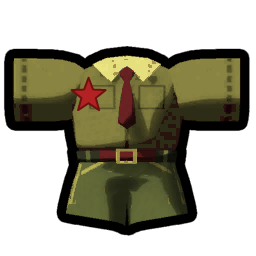
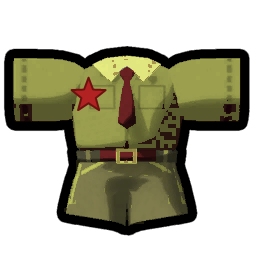
1.3.1: uniforme fiel as referencias (patentes, gola vermelha, calca no coturno)
- Mapeamento UV empirico do atlas: boneco vestido com gradiente UV + shader
  unlit (novo UnlitDummy no autotest) + tools/DecodeUV.cs decodifica o render
  em um mapa atlas->corpo (documentado no AGENTS.md)
- Caqui claro esverdeado (as referencias), gola vermelha, patches vermelhos
  com estrela dourada no peito, estrela vermelha nas costas, meiao pintado de
  caqui (calca enfiada no coturno) sobre a regiao listrada correta
- PeakRecon exporta tambem as texturas de sapato (fitMaterialShoes)
- Autotest: camera do boneco afastada p/ corpo inteiro no render de validacao

diff --git a/tools/MakeSovietTex.cs b/tools/MakeSovietTex.cs
@@ -21,20 +21,45 @@ class MakeSovietTex
         string outDir = args[1];
         Directory.CreateDirectory(outDir);
 
-        // atlas 1024x1024 do uniforme (regiao do emblema de montanha vira estrela)
+        // atlas 1024x1024 do uniforme. Regioes confirmadas pelo mapa UV
+        // (tools\DecodeUV.cs + render unlit do boneco):
+        //   x718-908 y40-262  = ombros/gola direita  -> patente vermelha + estrela dourada
+        //   x435-705 y0-58    = topo do peito/gola    -> faixa vermelha
+        //   x62-348  y282-622 = meiao ("janela")      -> calca caqui + cano de coturno preto
+        //   x0-437   y840+    = gravata               -> vermelha
+        //   montanha (712,450) = emblema das COSTAS   -> estrela vermelha
         using (Bitmap atlas = new Bitmap(Path.Combine(texDir, "fits_14_Fit_Scoutmaster_Shorts_mat.png")))
         {
             // apaga a montanha clonando camisa limpa da esquerda (mesma faixa de y)
             CloneStamp(atlas, 635, 370, 810, 525, -190, 0);
             Remap(atlas, 0, 820, 440, 1023);
-            DrawStar(atlas, 712f, 450f, 74f);
+            // gola: faixa vermelha no topo do peito
+            PaintRegion(atlas, 435, 0, 705, 58, 0.0, 0.70, 0.55, 0.18, true);
+            // patente (pogony): vermelho dentro da moldura escura do "quadro"
+            PaintRegion(atlas, 718, 40, 908, 262, 0.0, 0.70, 0.55, 0.18, true);
+            // meiao -> calca caqui (em cima) + cano de coturno preto (embaixo).
+            // O meiao usa a regiao listrada branca (confirmado no render unlit);
+            // o bloco "janela" recebe o mesmo tratamento por seguranca (sem uso visivel)
+            PaintRegion(atlas, 62, 282, 348, 455, 0.15, 0.45, 0.60, 0.12, false);
+            PaintRegion(atlas, 62, 455, 348, 625, 0.08, 0.15, 0.12, 0.05, false);
+            PaintRegion(atlas, 448, 598, 972, 800, 0.15, 0.45, 0.60, 0.12, false);
+            PaintRegion(atlas, 448, 800, 972, 1020, 0.08, 0.15, 0.12, 0.05, false);
+            // estrela vermelha nas costas (antigo emblema de montanha)
+            DrawStar(atlas, 712f, 450f, 74f,
+                Color.FromArgb(255, 178, 34, 34), Color.FromArgb(255, 110, 16, 16));
+            // estrela dourada na patente do ombro
+            DrawStar(atlas, 818f, 152f, 52f,
+                Color.FromArgb(255, 214, 176, 56), Color.FromArgb(255, 120, 90, 20));
             atlas.Save(Path.Combine(outDir, "FitSoviet_atlas.png"), ImageFormat.Png);
         }
-        // icone 256x256 do passaporte (estrela no peito esquerdo)
+        // icone 256x256 do passaporte (estrela no peito + ombreiras vermelhas)
         using (Bitmap icon = new Bitmap(Path.Combine(texDir, "fits_14_Fit_Scoutmaster_Shorts_tex.png")))
         {
             Remap(icon, 100, 45, 155, 160);
-            DrawStar(icon, 88f, 95f, 18f);
+            PaintRegion(icon, 52, 38, 96, 56, 0.0, 0.70, 0.55, 0.18, true);
+            PaintRegion(icon, 158, 38, 202, 56, 0.0, 0.70, 0.55, 0.18, true);
+            DrawStar(icon, 88f, 95f, 18f,
+                Color.FromArgb(255, 178, 34, 34), Color.FromArgb(255, 110, 16, 16));
             icon.Save(Path.Combine(outDir, "FitSoviet_icon.png"), ImageFormat.Png);
         }
         // capacete: MedicHelmet ja e verde-oliva; troca o coracao por estrela
@@ -43,6 +68,47 @@ class MakeSovietTex
             CloneStamp(helm, 340, 365, 720, 720, -330, 0);
             DrawStar(helm, 528f, 530f, 118f);
             helm.Save(Path.Combine(outDir, "SovietHelmet_tex.png"), ImageFormat.Png);
+        }
+        // grade de debug UV: 8x8 celulas rotuladas A1..H8 para descobrir que regiao
+        // do atlas cai em cada parte do corpo (vestir via autopilot e fotografar)
+        using (Bitmap grid = new Bitmap(1024, 1024))
+        {
+            Color[] cols = new Color[]
+            {
+                Color.Red, Color.Lime, Color.Blue, Color.Yellow,
+                Color.Magenta, Color.Cyan, Color.Orange, Color.White
+            };
+            using (Graphics gr = Graphics.FromImage(grid))
+            using (Font f = new Font("Arial", 22, FontStyle.Bold))
+            {
+                for (int cy = 0; cy < 8; cy++)
+                {
+                    for (int cx = 0; cx < 8; cx++)
+                    {
+                        Color cc = cols[(cx + cy) % 8];
+                        using (Brush b = new SolidBrush(cc))
+                            gr.FillRectangle(b, cx * 128, cy * 128, 128, 128);
+                        string label = "" + (char)('A' + cy) + (cx + 1);
+                        gr.DrawString(label, f, Brushes.Black, cx * 128 + 6, cy * 128 + 6);
+                        gr.DrawString(label, f, Brushes.Black, cx * 128 + 60, cy * 128 + 88);
+                    }
+                }
+            }
+            grid.Save(Path.Combine(outDir, "UVGrid_atlas.png"), ImageFormat.Png);
+        }
+        // gradiente UV: R=coluna, G=linha, B=0 (marca d'agua). Um pixel do render
+        // unlit decodifica direto para a posicao no atlas (ver tools\DecodeUV.cs)
+        using (Bitmap grad = new Bitmap(1024, 1024))
+        {
+            for (int y = 0; y < 1024; y++)
+            {
+                for (int x = 0; x < 1024; x++)
+                {
+                    grad.SetPixel(x, y, Color.FromArgb(255, (int)(x * 255.0 / 1023.0),
+                                                       (int)(y * 255.0 / 1023.0), 0));
+                }
+            }
+            grad.Save(Path.Combine(outDir, "UVGradient_atlas.png"), ImageFormat.Png);
         }
         Console.WriteLine("ok: FitSoviet_atlas.png + FitSoviet_icon.png em " + outDir);
         return 0;
@@ -88,8 +154,9 @@ class MakeSovietTex
                 }
                 else if (marrom)
                 {
-                    // camisa marrom -> caqui amarelado (referencia: gimnastyorka)
-                    bmp.SetPixel(x, y, FromHsv(0.155, 0.38 + s * 0.20, Math.Min(1.0, v * 1.12), c.A));
+                    // camisa marrom -> caqui esverdeado CLARO (levanta os tons escuros
+                    // para nao confundir com o marrom original sob luz quente)
+                    bmp.SetPixel(x, y, FromHsv(0.175, 0.40 + s * 0.15, Math.Min(1.0, 0.22 + v * 0.85), c.A));
                 }
                 else if (verde && v < 0.35 && x >= tx0 && x <= tx1 && y >= ty0 && y <= ty1)
                 {
@@ -98,8 +165,8 @@ class MakeSovietTex
                 }
                 else if (verde)
                 {
-                    // cinto/calcao verdes -> verde-oliva militar
-                    bmp.SetPixel(x, y, FromHsv(0.19, s * 0.65, v * 0.88, c.A));
+                    // cinto/calcao verdes -> caqui um tom abaixo da camisa (referencia)
+                    bmp.SetPixel(x, y, FromHsv(0.155, s * 0.55, Math.Min(1.0, 0.10 + v * 0.85), c.A));
                 }
                 else if (claro)
                 {
@@ -113,6 +180,12 @@ class MakeSovietTex
 
     static void DrawStar(Bitmap bmp, float cx, float cy, float radius)
     {
+        DrawStar(bmp, cx, cy, radius,
+            Color.FromArgb(255, 178, 34, 34), Color.FromArgb(255, 110, 16, 16));
+    }
+
+    static void DrawStar(Bitmap bmp, float cx, float cy, float radius, Color fillC, Color edgeC)
+    {
         PointF[] pts = new PointF[10];
         double rot = -Math.PI / 2.0; // ponta para cima
         for (int i = 0; i < 10; i++)
@@ -125,12 +198,31 @@ class MakeSovietTex
         using (Graphics gr = Graphics.FromImage(bmp))
         {
             gr.SmoothingMode = SmoothingMode.AntiAlias;
-            using (Brush fill = new SolidBrush(Color.FromArgb(255, 178, 34, 34)))
-            using (Pen edge = new Pen(Color.FromArgb(255, 110, 16, 16), Math.Max(2f, radius * 0.08f)))
+            using (Brush fill = new SolidBrush(fillC))
+            using (Pen edge = new Pen(edgeC, Math.Max(2f, radius * 0.08f)))
             {
                 edge.LineJoin = LineJoin.Round;
                 gr.FillPolygon(fill, pts);
                 gr.DrawPolygon(edge, pts);
+            }
+        }
+    }
+
+    // recolore um retangulo do atlas preservando o sombreado (v do pixel);
+    // skipDark preserva contornos escuros (ex.: moldura da patente)
+    static void PaintRegion(Bitmap bmp, int x0, int y0, int x1, int y1,
+                            double h, double s, double vmul, double vadd, bool skipDark)
+    {
+        for (int y = y0; y <= y1 && y < bmp.Height; y++)
+        {
+            for (int x = x0; x <= x1 && x < bmp.Width; x++)
+            {
+                Color c = bmp.GetPixel(x, y);
+                if (c.A < 8) continue;
+                int max = Math.Max(c.R, Math.Max(c.G, c.B));
+                double v = max / 255.0;
+                if (skipDark && v < 0.30) continue;
+                bmp.SetPixel(x, y, FromHsv(h, s, Math.Min(1.0, v * vmul + vadd), c.A));
             }
         }
     }

diff --git a/tools/DecodeUV.cs b/tools/DecodeUV.cs
@@ -1,0 +1,78 @@
+// DecodeUV - le o render unlit do boneco vestido com UVGradient_atlas.png e
+// pinta, sobre o atlas original escurecido, qual parte do corpo usa cada regiao.
+// Faixas de tela (render 512x512 do dummyCamera com o ajuste do PeakAutoTest):
+//   ombros=vermelho, mangas=laranja, peito=verde, cinto=azul, calcao=amarelo,
+//   meiao=magenta, sapato/bota=ciano.
+// uso: DecodeUV.exe <dummy_rt.png> <atlas_original.png> <saida_map.png>
+using System;
+using System.Drawing;
+using System.Drawing.Imaging;
+
+class DecodeUV
+{
+    static int Main(string[] args)
+    {
+        if (args.Length < 3)
+        {
+            Console.WriteLine("uso: DecodeUV.exe <dummy_rt.png> <atlas_original.png> <saida_map.png>");
+            return 1;
+        }
+        using (Bitmap rt = new Bitmap(args[0]))
+        using (Bitmap baseAtlas = new Bitmap(args[1]))
+        using (Bitmap outMap = new Bitmap(1024, 1024))
+        {
+            // fundo: atlas original escurecido para dar contexto
+            using (Graphics g = Graphics.FromImage(outMap))
+            {
+                g.DrawImage(baseAtlas, 0, 0, 1024, 1024);
+                using (Brush dim = new SolidBrush(Color.FromArgb(150, 255, 255, 255)))
+                    g.FillRectangle(dim, 0, 0, 1024, 1024);
+            }
+            int pintados = 0;
+            for (int y = 0; y < rt.Height; y++)
+            {
+                Color band = Classify(y, rt.Height);
+                if (band.A == 0) continue;
+                for (int x = 0; x < rt.Width; x++)
+                {
+                    Color c = rt.GetPixel(x, y);
+                    // so aceita pixels do gradiente: B~0 e nao-preto
+                    if (c.B > 40 || c.R + c.G < 25) continue;
+                    if (c.R > 230 && c.G > 230) continue; // branco = pele
+                    // mangas vs peito: faixa lateral
+                    Color use = band;
+                    if (band.G == 255 && band.R == 0 && (x < rt.Width * 34 / 100 || x > rt.Width * 66 / 100))
+                        use = Color.Orange;
+                    int ax = (int)(c.R / 255.0 * 1023.0);
+                    int ay = (int)(c.G / 255.0 * 1023.0);
+                    for (int dy = -2; dy <= 2; dy++)
+                    {
+                        for (int dx = -2; dx <= 2; dx++)
+                        {
+                            int px = ax + dx, py = ay + dy;
+                            if (px < 0 || py < 0 || px > 1023 || py > 1023) continue;
+                            outMap.SetPixel(px, py, use);
+                        }
+                    }
+                    pintados++;
+                }
+            }
+            outMap.Save(args[2], ImageFormat.Png);
+            Console.WriteLine("ok: " + pintados + " pixels decodificados -> " + args[2]);
+        }
+        return 0;
+    }
+
+    // faixas verticais do render 512 (escala se o render tiver outro tamanho)
+    static Color Classify(int y, int h)
+    {
+        double f = y / (double)h;
+        if (f >= 0.235 && f < 0.290) return Color.Red;                  // ombros/trapezios
+        if (f >= 0.290 && f < 0.420) return Color.FromArgb(0, 255, 0);  // peito (mangas via x)
+        if (f >= 0.420 && f < 0.455) return Color.Blue;                 // cinto
+        if (f >= 0.455 && f < 0.540) return Color.Yellow;               // calcao
+        if (f >= 0.600 && f < 0.665) return Color.Magenta;              // meiao
+        if (f >= 0.665 && f < 0.760) return Color.Cyan;                 // sapato/bota
+        return Color.FromArgb(0, 0, 0, 0);
+    }
+}

diff --git a/PeakAutoTest.cs b/PeakAutoTest.cs
@@ -26,6 +26,7 @@ public class PeakAutoTestPlugin : BaseUnityPlugin
     private ConfigEntry<bool> _testUI;
     private ConfigEntry<bool> _airportOnly;
     private ConfigEntry<bool> _testPassport;
+    private ConfigEntry<bool> _unlitDummy;
     private bool _soloClicked;
     private bool _boarded;
 
@@ -41,6 +42,7 @@ public class PeakAutoTestPlugin : BaseUnityPlugin
         _testUI = Config.Bind("AutoTest", "TestBoardingUI", false, "Abre e fecha a boarding pass antes de embarcar (testa a UI injetada)");
         _airportOnly = Config.Bind("AutoTest", "AirportOnly", false, "Para no Airport, espera QuitAfterSeconds e fecha (nao embarca)");
         _testPassport = Config.Bind("AutoTest", "TestPassport", false, "No Airport: veste o Fit_Soviet + bone, abre o passaporte, tira screenshot e fecha");
+        _unlitDummy = Config.Bind("AutoTest", "UnlitDummy", false, "No TestPassport: boneco em shader unlit (leitura de UV, cores puras da textura)");
         if (!_enabled.Value)
         {
             Log.LogInfo("[AutoTest] desligado");
@@ -223,6 +225,41 @@ public class PeakAutoTestPlugin : BaseUnityPlugin
         }
         else Log.LogWarning("[AutoTest] PassportManager.instance nulo");
         yield return new WaitForSeconds(3f);
+        // afasta a camera do boneco para enquadrar o corpo inteiro no render
+        try
+        {
+            if (pm != null && pm.dummyCamera != null)
+            {
+                Transform ct = pm.dummyCamera.transform;
+                ct.position = ct.position - ct.forward * 1.6f - Vector3.up * 0.45f;
+                pm.dummyCamera.fieldOfView = 55f;
+            }
+            // shader unlit em tudo do boneco: cores puras da textura, sem luz da cena
+            if (pm != null && pm.dummy != null && _unlitDummy.Value)
+            {
+                Shader unlit = Shader.Find("UI/Default");
+                if (unlit == null) unlit = Shader.Find("Unlit/Texture");
+                if (unlit != null)
+                {
+                    Renderer[] all = pm.dummy.GetComponentsInChildren<Renderer>(true);
+                    for (int ri = 0; ri < all.Length; ri++)
+                    {
+                        Material[] ms = all[ri].materials;
+                        for (int mi = 0; mi < ms.Length; mi++)
+                        {
+                            if (ms[mi] == null) continue;
+                            Texture keep = ms[mi].mainTexture;
+                            ms[mi].shader = unlit;
+                            ms[mi].mainTexture = keep;
+                        }
+                    }
+                    Log.LogInfo("[AutoTest] boneco em modo unlit para leitura de UV");
+                }
+                else Log.LogWarning("[AutoTest] nenhum shader unlit disponivel");
+            }
+        }
+        catch (Exception e) { Log.LogWarning("[AutoTest] ajuste de camera/shader falhou: " + e.Message); }
+        yield return new WaitForSeconds(1f);
         // prova extra: salva o render do boneco de preview direto da camera dele
         try
         {

diff --git a/PeakRecon.cs b/PeakRecon.cs
@@ -213,7 +213,7 @@ public class PeakReconPlugin : BaseUnityPlugin
             }
             if (o.fitMesh != null) sb.AppendLine("      fitMesh=" + o.fitMesh.name);
             DumpMat("fitMaterial", o.fitMaterial, sb, texDir, exportTex, label + "_" + i + "_" + o.name);
-            DumpMat("fitMaterialShoes", o.fitMaterialShoes, sb, texDir, false, null);
+            DumpMat("fitMaterialShoes", o.fitMaterialShoes, sb, texDir, exportTex, label + "_" + i + "_" + o.name + "_shoes");
             DumpMat("fitMaterialOverridePants", o.fitMaterialOverridePants, sb, texDir, false, null);
             DumpMat("fitMaterialOverrideHat", o.fitMaterialOverrideHat, sb, texDir, false, null);
             if (o.overrideHat) sb.AppendLine("      overrideHat -> index " + o.overrideHatIndex);

diff --git a/PeakLab.cs b/PeakLab.cs
@@ -19,7 +19,7 @@ using UnityEngine.Events;
 using UnityEngine.SceneManagement;
 using UnityEngine.UI;
 
-[BepInPlugin("nicolas.peaklab", "PeakLab", "1.3.0")]
+[BepInPlugin("nicolas.peaklab", "PeakLab", "1.3.1")]
 public class PeakLabPlugin : BaseUnityPlugin
 {
     internal static ManualLogSource Log;
@@ -111,7 +111,7 @@ public class PeakLabPlugin : BaseUnityPlugin
                 new HarmonyMethod(typeof(PeakLabPlugin).GetMethod("SetCustomForRefPrefix",
                     BindingFlags.Static | BindingFlags.NonPublic)), null);
             SceneManager.sceneLoaded += OnSceneLoaded;
-            Log.LogInfo("PeakLab 1.3.0 pronto");
+            Log.LogInfo("PeakLab 1.3.1 pronto");
         }
         catch (Exception e)
         {

diff --git a/AGENTS.md b/AGENTS.md
@@ -208,6 +208,21 @@ O daily do vanilla nunca re-sorteia nada disso.
   remap por família de cor em HSV (preserva sombreado pintado), clone-stamp para
   apagar emblemas, estrela desenhada por polígono. Iterar: gerar → build → autopilot
   `TestPassport=true` → ver `recon\passport_test.png` e `recon\dummy_rt.png`.
+- **Pipeline de mapeamento UV** (para saber que região do atlas cai em cada parte
+  do corpo): vestir o boneco com `UVGradient_atlas.png` (R=coluna, G=linha, B=0
+  como marca d'água), `UnlitDummy=true` no autotest (troca shader por UI/Default →
+  cores puras, sem luz da cena; o autotest também afasta a `dummyCamera` p/ corpo
+  inteiro), e decodificar o render com `tools/DecodeUV.cs`. ATENÇÃO: filtragem
+  bilinear/mip gera decodes fantasma — confirme SEMPRE com um render unlit da
+  textura final antes de confiar no mapa.
+- **Mapa UV do atlas de fit (verificado no render)**: "quadro" com moldura
+  (x718-908, y40-262) = gola + patches do peito (espelhado nos 2 lados); faixa
+  superior central (x435-705, y0-58) = topo do peito/gola; região listrada branca
+  (x448-972, y595+) = MEIÃO (ribs verticais; não é a saia!); montanha amarela
+  (712,450) = emblema das COSTAS; bloco "janela" (x62-348, y282-622) = sem uso
+  visível no fit Shorts (provável gorro/saia); gravata = verde-escuro do canto
+  inferior esquerdo (x0-437, y840+); meião NÃO vem do material dos sapatos (o
+  `Scouts Tex pack 1` é só o sapato em si).
 
 ## 4. Componentes do repo
 
